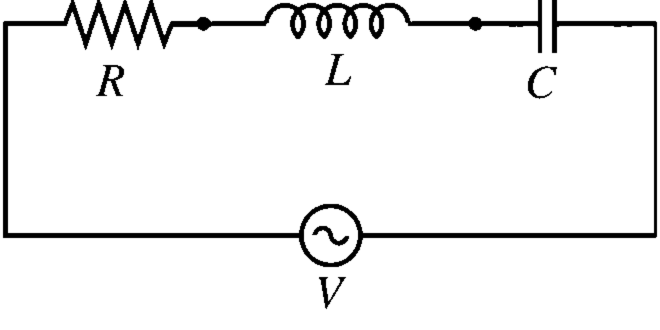
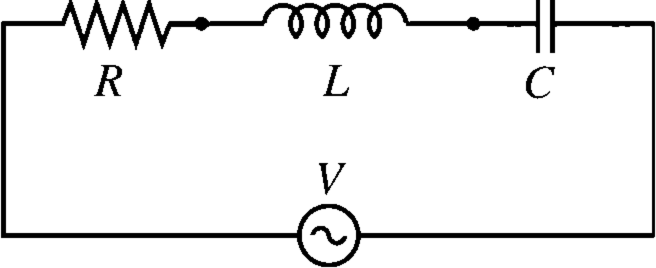
Circuit section

Changed region(s): [[0.0, 0.0, 1.0, 1.0]]

diff --git a/resources/index.html b/resources/index.html
@@ -15,26 +15,35 @@
             <div class="grid-item" id="circuit">
                 <h3>Circuit</h3>
                 <br />
-                <h6>PH</h6>
-                <div class="circuit-block" height="40%">
-                <div class="circuit-wrapper">
-                    <div class="circuit-values">
-                        <table class="circuit-table">
-                            <tbody>
-                                <tr>
-                                    <td id="cR">PH</td>
-                                    <td id="cL">PH</td>
-                                    <td id="cC">PH</td>
-                                </tr>
-                            </tbody>
-                        </table>
-                    </div>
-                    <div class="circuit-container">
-                        <img id="diagram" src="./pn.png" alt="RLC circuit" />
-                    </div>
-                </div>    
-            </div>
-            <div class="cV" >PH</div>
+                <div class="circuit-block">
+                    <div class="circuit-wrapper">
+                        <div class="circuit-values">
+                            <table class="circuit-table">
+                                <tbody>
+                                    <tr class="eqSpE">
+                                        <td id="cR">PH</td>
+                                        <td id="cL">PH</td>
+                                        <td id="cC">PH</td>
+                                    </tr>
+                                </tbody>
+                            </table>
+                        </div>
+                        <div class="circuit-container">
+                            <img id="diagram" src="./pn.png" alt="RLC circuit" />
+                        </div>
+                        <div class="circuit-values">
+                            <table class="circuit-table">
+                                <tbody>
+                                    <tr class="eqSpE">
+                                        <td id="tDummy"><span id="cDummy"></span></td>
+                                        <td id="cVF"><span id="cV"></span>,<span id="cF"></span></td>
+                                        <td id="cIW">i=</td>
+                                    </tr>
+                                </tbody>
+                            </table>
+                        </div>
+                    </div>    
+                </div>
 			</div>
             <div class="grid-item" id="input"><h3>Input</h3>
 				<form>

diff --git a/resources/base.css b/resources/base.css
@@ -67,9 +67,7 @@ body{
 }
 
 .circuit-values{
-	position: absolute;
-	top:0;
-	left: 0;
+	
 	width:100%;
 	
 }
@@ -87,17 +85,15 @@ body{
 }
 .circuit-container{
 	width: 100%;
-	position: absolute;
-	top: 2em;
-	left: 0;
+	
 }
 #diagram{
 	display: block;
-	margin-top: 0;
+	margin-top: 0.5em;
 	margin-left: auto;
 	margin-right:auto;
 	width:75%;
-	margin-bottom: 0px;
+	margin-bottom: 0.5em;
 }
 	
 
@@ -179,4 +175,9 @@ button:active{
 
 .knobContainer{
 	margin-top:1em;
+}
+
+
+tr.eqSpE> td{
+	width:33%;
 }
